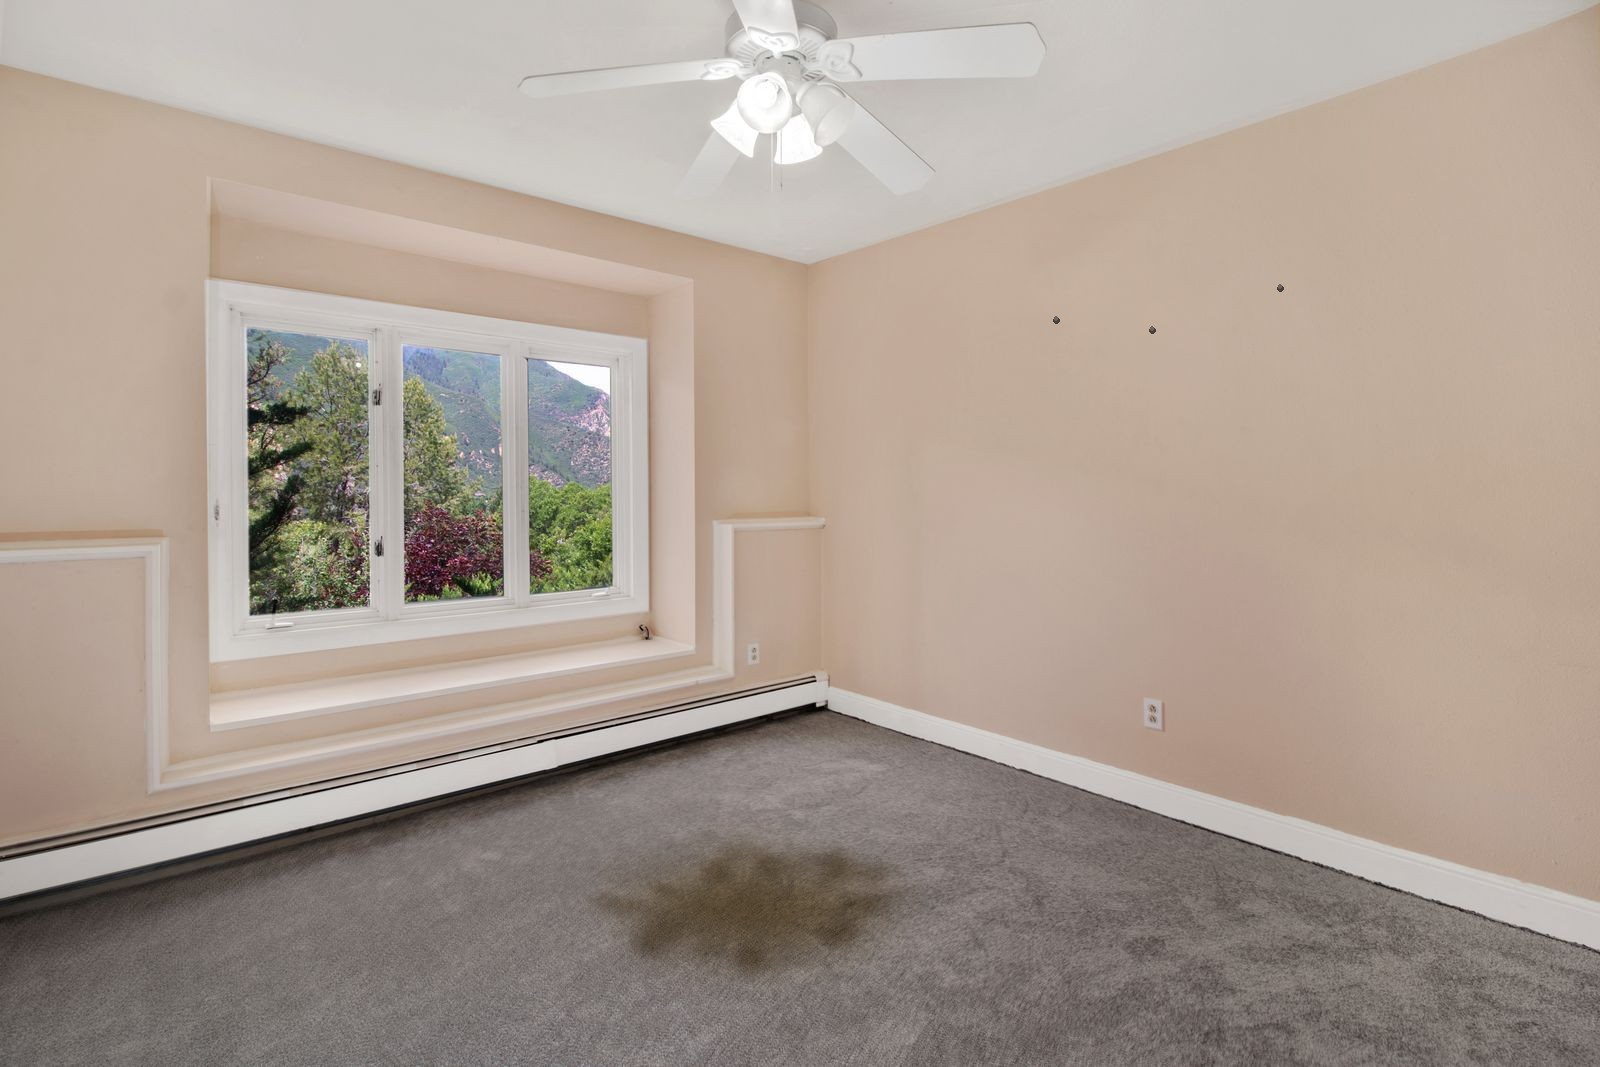
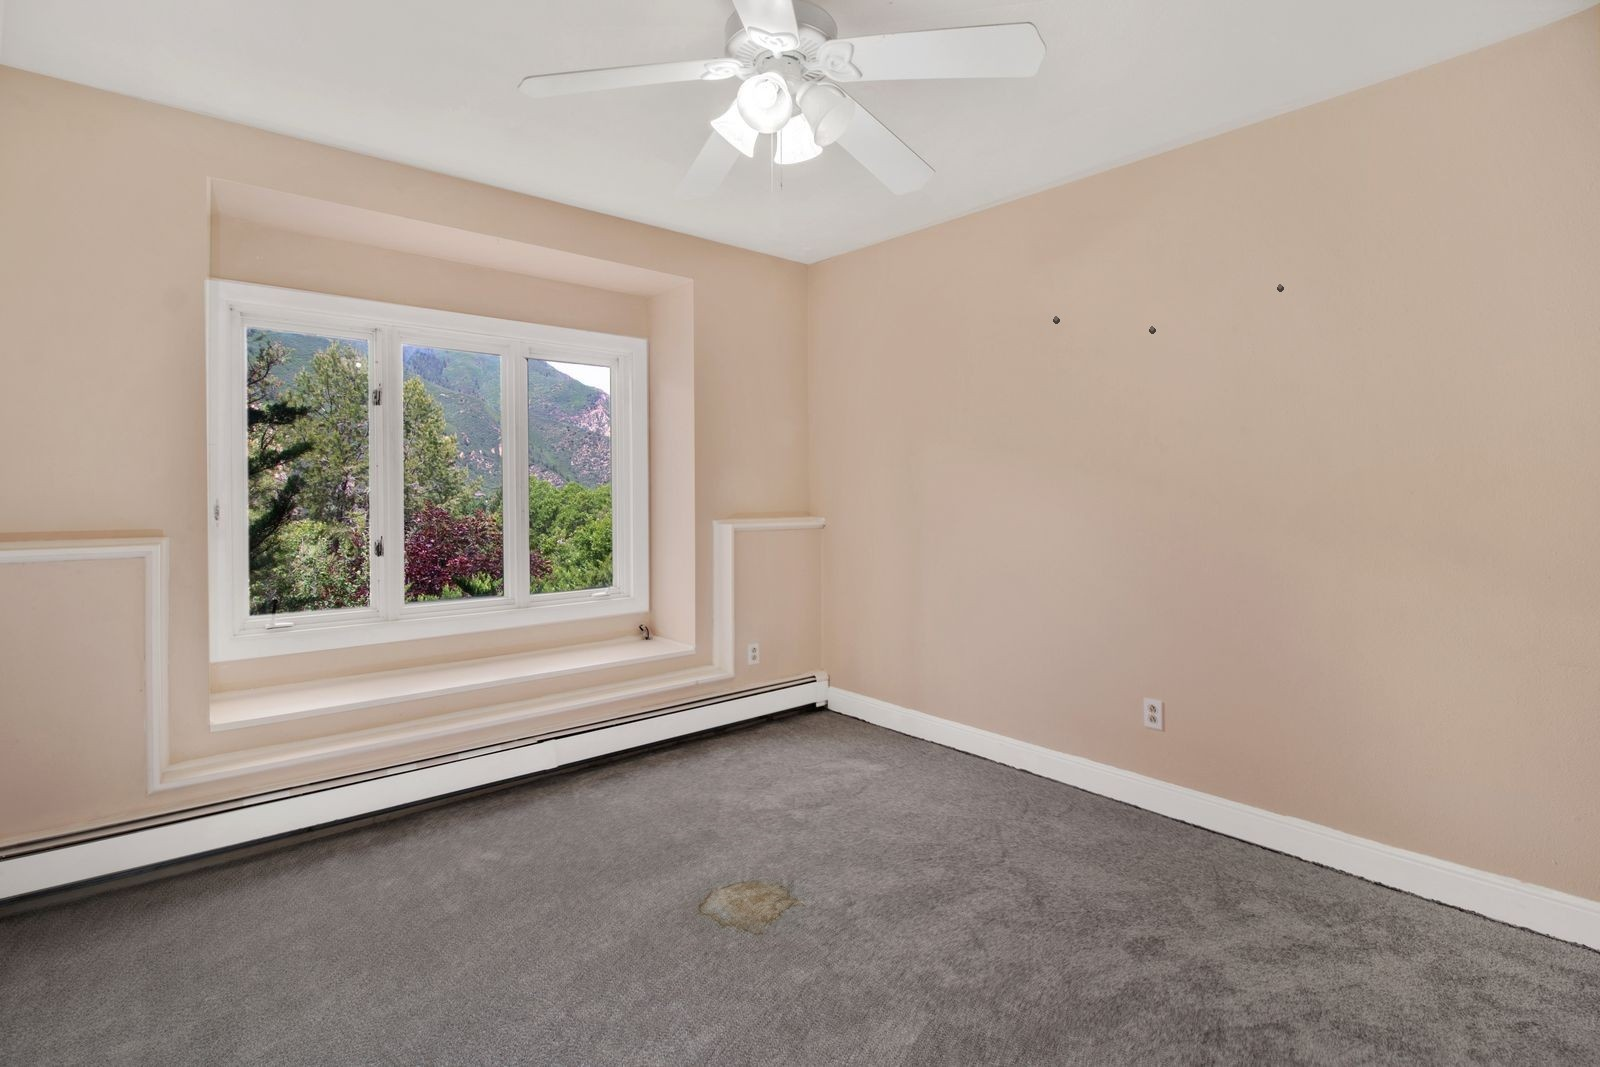
Demo: the move-out unit's new photos, with damage of a realistic size
The move-out photos of 1140 E. Juniper Hollow Ln now show a carpet stain about a foot across, a wall hole about five
inches across and burnt-on grease on the cooktop and its grates, where the old ones showed a stain two to three feet
across, a star-shaped mark and spots over the whole range (his 11-11 "Those are massive and not realistic damages"). The
damage was drawn by an image model, cut to the damaged area, scaled and blended onto the move-in photo, at the old
damage's spots, so the video's markers still point at it.

The template's photos went up at new storage paths (a stored path is never reused, since browsers cache thumbnails by
path), its findings and the deductions' copies of them say what the new photos show, in the words the video uses
(gf-motion out/v8c-findings-text.md), and the boxes were measured on the new photos against move-in: the AI
inspection's own boxes on them agree to within 1 percent of the frame. The living-room hole's box is grown about its
center so it stays at least 6 px a side on the tenants' page. The range line is now "Range (cooktop and burner grates)",
degreased in 3 hours as before; the amounts, $1,010.00 kept and $3,790.00 back, are unchanged.

data/template-thumbs regenerated (template-thumbs --check: 23 of 23). e2e-demo.py reads the new labels and finds the
carpet box whatever its case; 222 of 222, a11y-check 397 of 397, align-check 8 of 8 on a production build. The
README's move-out picture is this run's.

Changed region(s): [[0.375, 0.7732, 0.5625, 0.9278]]

diff --git a/scripts/e2e-demo.py b/scripts/e2e-demo.py
@@ -1015,8 +1015,8 @@ def walk(base, setup, shots, check, facts, engine="chromium"):
         page.get_by_role("link", name="Move-out", exact=True).first.click()
         page.get_by_text("Photo comparison").first.wait_for()
         page.wait_for_load_state("networkidle")
-        t = sees("Move-out", page, f"Deposit held\n{D}", f"Deductions\n{P}", f"Refund due\n{R}", "Large carpet stain, center", "Three small wall holes",
-                 "Wear and tear", "Wall hole with cracks", "Grease spots on range", "Prorated, 4 of 10 years left", f"{R} to Luke Jones and Lane Forti",
+        t = sees("Move-out", page, f"Deposit held\n{D}", f"Deductions\n{P}", f"Refund due\n{R}", "Carpet stain, center", "Three small wall holes",
+                 "Wear and tear", "Wall hole, torn edges", "Grease spots on range", "Prorated, 4 of 10 years left", f"{R} to Luke Jones and Lane Forti",
                  "Nothing moves until you approve it.")
         # The grid's pinned totals before any refund: Deposit held, Deductions and Refund due, and nothing of a
         # settlement (the lines a settlement adds come only once one is paid; checked at the settled tab below).
@@ -1025,13 +1025,13 @@ def walk(base, setup, shots, check, facts, engine="chromium"):
               f"Deposit held {D}" in gt and f"Deductions −{P}" in gt and f"Refund due {R}" in gt and "Settlement" not in gt and "Returned in all" not in gt, gt[-300:])
         boxes = page.locator(".gf-mark")
         titles = boxes.evaluate_all("els => els.map(e => e.getAttribute('title'))")
-        check("Move-out: Claude's damage boxes are drawn on the move-out photos", len(titles) >= 4 and any("carpet stain" in (x or "") for x in titles), json.dumps(titles))
+        check("Move-out: Claude's damage boxes are drawn on the move-out photos", len(titles) >= 4 and any("carpet stain" in (x or "").lower() for x in titles), json.dumps(titles))
         outs = page.locator("img[data-out]")
         for i in range(outs.count()):
             outs.nth(i).scroll_into_view_if_needed()
         page.wait_for_function("() => { const xs = [...document.querySelectorAll('img[data-out]')]; return xs.length >= 3 && xs.every(i => i.complete && i.naturalWidth > 0); }", timeout=30_000)
         check("Move-out: the three rooms' move-out photos load", outs.count() >= 3, f"{outs.count()} photos")
-        carpet_box = page.locator(".gf-mark[title*='carpet stain']").first
+        carpet_box = page.locator(".gf-mark[title*='carpet stain' i]").first
         carpet_box.scroll_into_view_if_needed()
         carpet_box.hover()
         grid = page.locator(".gf-deductions .ag-row").evaluate_all("rs => rs.map(r => r.innerText.replace(/\\s+/g, ' ').trim())")
@@ -1783,7 +1783,7 @@ def walk(base, setup, shots, check, facts, engine="chromium"):
         check("Settled tab: Hide the case folds it again", case_fold.count() == 1 and "Their advocate's summary" not in case.inner_text(),
               f"{case_fold.count()} fold lines; {case.inner_text()[:200]!r}")
         sees("Findings final: the Move-out tab keeps the findings the statement was sent with", page,
-             "Large carpet stain, center", "Three small wall holes", "Wall hole with cracks", "Grease spots on range")
+             "Carpet stain, center", "Three small wall holes", "Wall hole, torn edges", "Grease spots on range")
         check("Findings final: the Move-out tab offers neither Compare again nor Add photos",
               page.get_by_role("button", name=re.compile(r"^Compare (again|with move-in)")).count() == 0 and page.get_by_text("Add photos", exact=True).count() == 0,
               f"{page.get_by_role('button', name=re.compile(r'^Compare')).count()} Compare buttons, {page.get_by_text('Add photos', exact=True).count()} Add photos")

diff --git a/docs/HOW_IT_WORKS.md b/docs/HOW_IT_WORKS.md
@@ -406,4 +406,4 @@ Dates: the records read like a tenancy that ran for a year. The move-in steps ar
 
 `demo/lease-texas.pdf` (from `demo/lease-texas.html`) is the Texas unit's lease, by Harbor View Rentals LLC: rent and deposit $1,850, a $300 "nonrefundable" pet fee that secures against pet damage (flagged: it may be a deposit, Tex. Prop. Code 92.102, and stays off the invoice) and a $90 late fee (checked against the 92.019 safe harbor).
 
-The photos in `demo/photos` show a stained carpet and a few nail holes in the bedroom, a hole in the living room wall, and a grimy range and counter in the kitchen (credits in `demo/photos/CREDITS.md`). The inspection sorts what it sees into damage, cleaning and wear and tear; the nail holes come back as wear and tear and are never charged. The seed then deducts the carpet replacement prorated over its useful life ($1,800 invoice, 6 of 10 years used: $720), the drywall repair ($140) and three hours of the landlord's own cleaning of the range ($150), leaving $3,790 to return. Claude's reading varies a little from run to run: on the carpet it may say to try cleaning first, and the deduction then carries a note that spot cleaning did not lift the stain, which goes on the statement with the cost. A planned deduction whose finding the inspection did not make, or marked unclear, is skipped and named in the output, to add by hand. The receipts in `demo/receipts` are made up.
+The photos in `demo/photos` show a carpet stain about a foot across and a few nail holes in the bedroom, a hole about five inches across in the living room wall, and burnt-on grease on the cooktop and its grates in the kitchen (credits in `demo/photos/CREDITS.md`). The inspection sorts what it sees into damage, cleaning and wear and tear; the nail holes come back as wear and tear and are never charged. The seed then deducts the carpet replacement prorated over its useful life ($1,800 invoice, 6 of 10 years used: $720), the drywall repair ($140) and three hours of the landlord's own cleaning of the range ($150), leaving $3,790 to return. Claude's reading varies a little from run to run: on the carpet it may say to try cleaning first, and the deduction then carries a note that spot cleaning did not lift the stain, which goes on the statement with the cost. A planned deduction whose finding the inspection did not make, or marked unclear, is skipped and named in the output, to add by hand. The receipts in `demo/receipts` are made up.

diff --git a/README.md b/README.md
@@ -219,10 +219,10 @@ python scripts/align-check.py --worktree <a new dir> --shots <dir> # every mark 
 | `security-check.mjs` | 135 of 135 | By hand, 2026-11-11, until its line in `checks.yml` is pushed |
 | `ca-snapshot.mjs` | Identical, 17 sections | By hand, 2026-10-16 |
 | `clipboard-check.py` on a production build | 8 of 8 | By hand, 2026-10-15 |
-| `e2e-demo.py` on a production build | 222 of 222 | By hand, 2026-11-10 |
-| `a11y-check.py` on a production build | 397 of 397, no serious or critical axe violation | By hand, 2026-11-10 |
+| `e2e-demo.py` on a production build | 222 of 222 | By hand, 2026-11-11 |
+| `a11y-check.py` on a production build | 397 of 397, no serious or critical axe violation | By hand, 2026-11-11 |
 | `npm audit --omit=dev --audit-level=critical` | Clean; 12 advisories below critical, in the toolkit's tree and `zod` 3 ([Security](#security)) | By hand, 2026-11-02 |
-| `align-check.py` on a production build | 8 of 8: 1,625 marks beside text, 693 glyphs in frames and 688 labels in boxes on 102 views, none off by more than 0.75 px | By hand, 2026-11-10 |
+| `align-check.py` on a production build | 8 of 8: 1,696 marks beside text, 766 glyphs in frames and 834 labels in boxes on 102 views, none off by more than 0.75 px | By hand, 2026-11-11 |
 
 What each script checks, and how the end-to-end test builds and stubs: [docs/HOW_IT_WORKS.md](docs/HOW_IT_WORKS.md#checks-and-the-end-to-end-test).
 

diff --git a/docs/LEGAL_RULES.md b/docs/LEGAL_RULES.md
@@ -118,7 +118,7 @@ This is the scenario `npm run demo:seed` builds (HOW_IT_WORKS.md, "Demo data and
 
 **The outcome** (move-in, before and after photos on file):
 1. A few small nail holes in the bedroom: wear and tear, $0 (D9; DRE p. 85).
-2. Bedroom carpet with a large stain, replaced: $1,800 invoice. The carpet is 6 years old with a 10-year life, so 4 years remain: **$720** (DRE p. 84 proration, marked as guidance). The inspection may say to try cleaning first; the deduction then carries the landlord's note that spot cleaning did not lift the stain, as part of the written explanation of the cost (D20, (h)(2)(D)).
+2. Bedroom carpet with a stain about a foot across, replaced: $1,800 invoice. The carpet is 6 years old with a 10-year life, so 4 years remain: **$720** (DRE p. 84 proration, marked as guidance). The inspection may say to try cleaning first; the deduction then carries the landlord's note that spot cleaning did not lift the stain, as part of the written explanation of the cost (D20, (h)(2)(D)).
 3. Hole in the living room wall, patched by a handyman: invoice $140, with name, address and phone: **$140**.
 4. Range cleaning by the landlord: 3 hours at $50, described: **$150**. No professional cleaning was billed, so (e)(2)(C) is satisfied.
 

diff --git a/demo/photos/CREDITS.md b/demo/photos/CREDITS.md
@@ -1,8 +1,10 @@
 # Demo photos
 
 Move-in photos are free stock photos from Pexels (Pexels License: free to use and modify). The move-out versions are
-the same photos with damage added programmatically for testing (scripts in the commit history): a pet stain and nail
-holes (bedroom), a wall hole and baseboard scuffs (living room), burnt grime on the range (kitchen).
+the same photos with damage added for testing: a stain about a foot across and nail holes (bedroom), a wall hole about
+five inches across (living room), burnt-on grease on the cooktop and its grates (kitchen). Since 2026-11-11 the damage is drawn by an AI
+image model, cut to the damaged area, scaled to a realistic size and blended onto the move-in photo, so everything
+else matches it pixel for pixel.
 
 - Bedroom: https://www.pexels.com/photo/empty-room-with-a-wall-to-wall-carpet-17181941/
 - Living room: https://www.pexels.com/photo/spacious-empty-room-with-white-walls-7031603/
